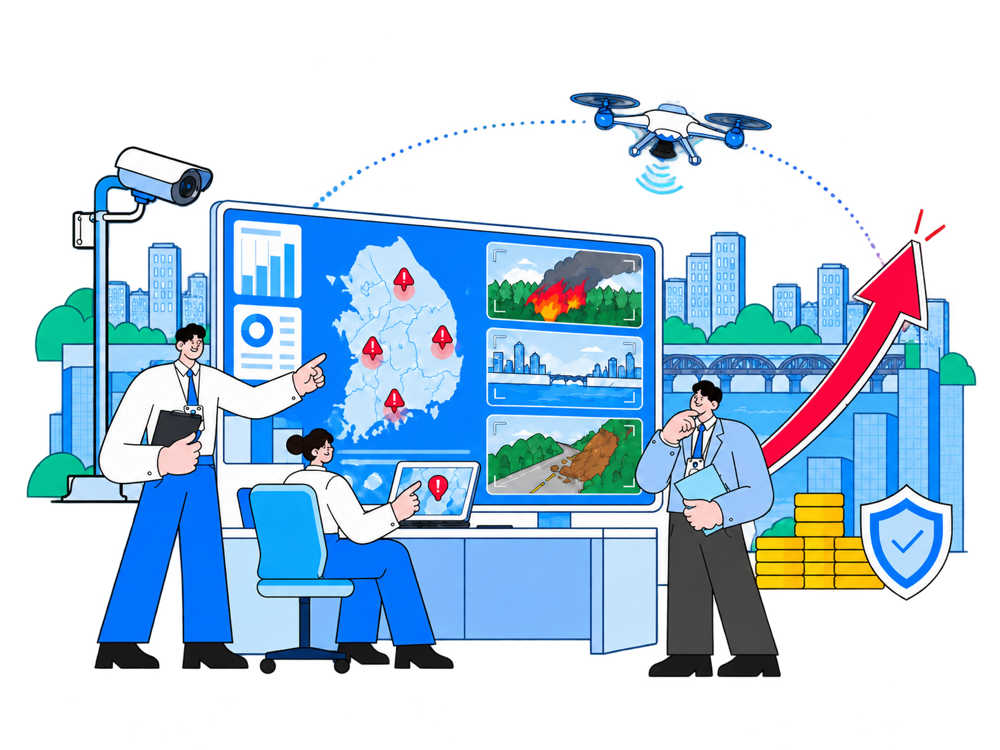
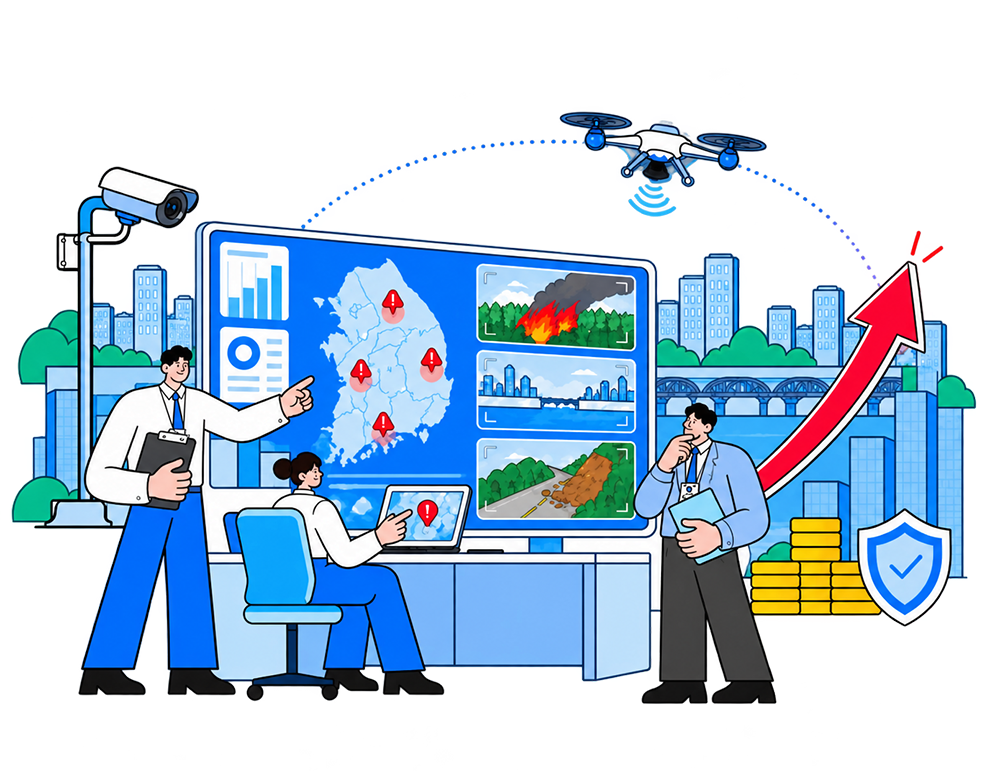
feat: show brand text in 901-1300px header and update sub-07/08 images
- Keep brand description and vol badge visible between 901px and 1300px,
  tighten brand gap/font and let the main menu width scale with viewport
- Replace sub7-1~4 and sub8-ill-5 illustrations

diff --git a/css/common.css b/css/common.css
@@ -223,10 +223,33 @@
 }
 
 @media (max-width: 81.25rem) and (min-width: 56.3125rem) {
+    .header-inner {
+        grid-template-columns: auto minmax(0, 1fr) auto;
+        column-gap: 1rem;
+    }
 
-    .brand-description,
+    .site-brand {
+        gap: 0.625rem;
+    }
+
+    .brand-description {
+        font-size: 0.8125rem;
+    }
+
     .brand-issue {
-        display: none;
+        font-size: 1.0625rem;
+    }
+
+    .main-navigation {
+        justify-self: center;
+    }
+
+    .main-menu {
+        width: clamp(18rem, calc(33vw - 0.65rem), 26rem);
+    }
+
+    .main-menu>li>a {
+        font-size: 1.0625rem;
     }
 }
 
